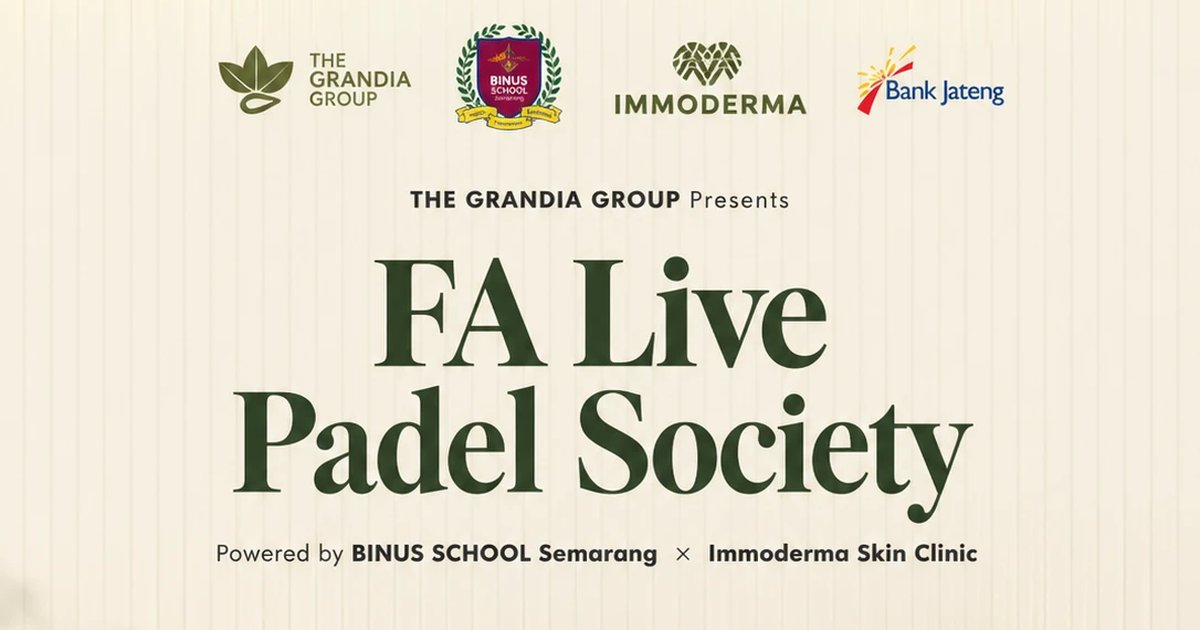
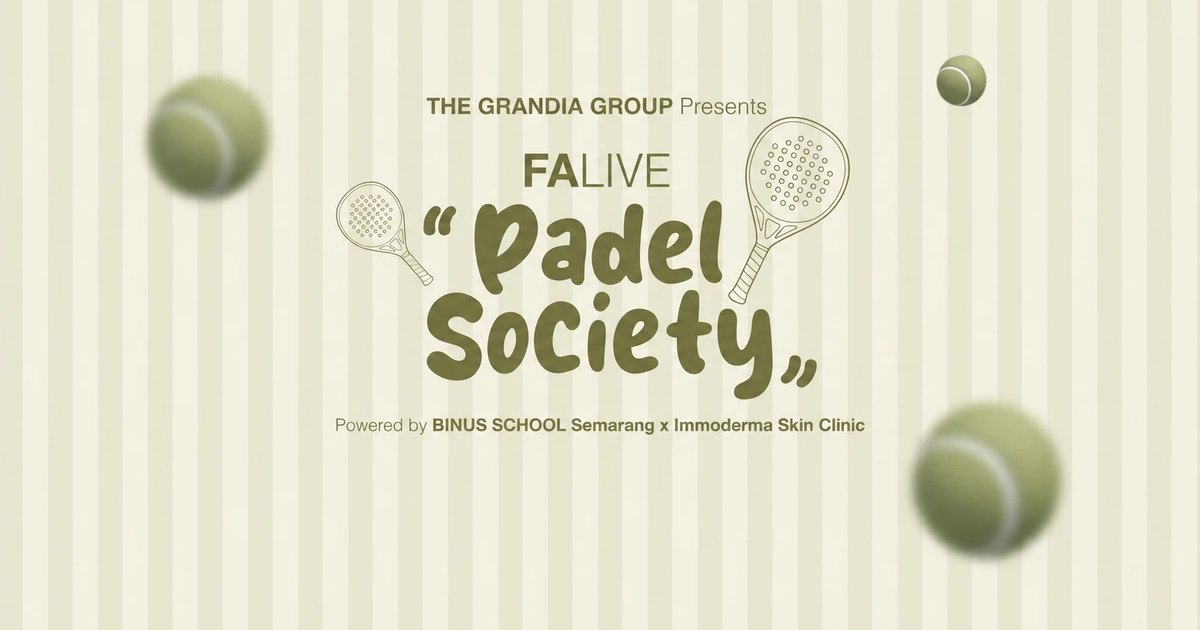
feat(ui): rebuild the cover around the organiser's new flyer
The new flyer is landscape and no longer carries the presenters' logos or the community partners, so both are rendered around it from their own files. A phone gets a square crop of the flyer, the title and the rackets without the balls; from 640px up the whole picture is shown. One picture element, so only one file is fetched. On a screen shorter than 600px the logos and the partners step aside and the flyer takes the room.

The logos arrived with white boxes of their own, which are cut away so they sit on the cream, and Club 79 arrived as white artwork, which is recoloured to ink. The WhatsApp preview and the tab icon are regenerated from the new files. Decorative logos are served at quality 60, which holds the page at 354 KB with Performance 99-100; the QR is untouched, it never passes through the image optimiser.

diff --git a/components/invitation/CoverBackdrop.tsx b/components/invitation/CoverBackdrop.tsx
@@ -5,12 +5,17 @@ import { useEffect, useState } from "react";
 import { BRAND } from "@/lib/brand";
 
 /**
- * The layer behind the cover — DESIGN.md section 5.1: the striped wall and
- * the flyer on it, pinned for the whole page. Once the card named by
- * `revealId` has risen past the lower fifth of the screen, the whole layer
- * blurs and fades back so the eye moves to the card; it sharpens again when
- * the visitor scrolls back up. Blurring the stripes with the flyer keeps the
- * flyer's edge from standing out against a sharp background.
+ * The layer behind the cover — DESIGN.md section 5.1: the striped wall, the
+ * presenters' logos, the flyer, and the community partners, pinned while the
+ * page scrolls. The logos and the partners used to be printed on the flyer
+ * itself; the organiser now supplies them as their own files, so they are set
+ * around it here.
+ *
+ * Once the card named by `revealId` has risen past the lower fifth of the
+ * screen, the whole layer blurs and fades back so the eye moves to the card,
+ * and it sharpens again when the visitor scrolls back up. Blurring the stripes
+ * with the artwork keeps the flyer's edge from standing out against a sharp
+ * background.
  *
  * The blur is switched, not scrubbed: a filter recomputed on every scroll
  * frame stutters on a cheap phone, a single transition does not. Without
@@ -20,6 +25,8 @@ import { BRAND } from "@/lib/brand";
 type CoverBackdropProps = {
   revealId: string;
 };
+
+const CAPTION = "font-sans text-sm font-normal tracking-[0.12em] text-ink";
 
 export function CoverBackdrop({ revealId }: CoverBackdropProps) {
   const [blurred, setBlurred] = useState(false);
@@ -38,7 +45,7 @@ export function CoverBackdrop({ revealId }: CoverBackdropProps) {
     return () => observer.disconnect();
   }, [revealId]);
 
-  const { flyer } = BRAND;
+  const { presenters, flyer, communities } = BRAND;
 
   return (
     // lvh, the screen with the address bar hidden, so the layer always covers
@@ -49,23 +56,60 @@ export function CoverBackdrop({ revealId }: CoverBackdropProps) {
       className="group sticky top-0 -mb-[100lvh] h-lvh overflow-hidden bg-canvas"
     >
       <div className="keep-fade paper-stripes absolute inset-0 transition-[filter] duration-500 ease-out group-data-blurred:blur-md">
-        {/* The flyer is placed within svh, not dvh: dvh follows the address
-            bar in and out, and the flyer would jump in size. */}
-        <div className="flex h-svh items-center justify-center pt-4 pb-24 sm:px-6 sm:pt-8 sm:pb-28">
-          {/* The width is bounded by the screen's width and, through the
-              flyer's 3:4, by its height, so the whole flyer is always in view.
-              It is set here rather than left to the image: the file's own
-              width changes with the candidate the browser picks. */}
-          <div className="w-[min(100%,calc((100svh-7rem)*3/4))] overflow-hidden transition-[scale] duration-500 ease-out motion-safe:group-data-blurred:scale-105 sm:w-[min(100%,calc((100svh-9rem)*3/4))] sm:rounded-card sm:shadow-card">
-            <Image
-              src={flyer.src}
+        {/* Placed within svh, not dvh: dvh follows the address bar in and out,
+            and the artwork would jump in size. */}
+        <div className="flex h-svh flex-col items-center justify-center gap-5 px-4 pt-4 pb-24 sm:gap-7 sm:px-6 sm:pt-8 sm:pb-28">
+          <Image
+            src={presenters.src}
+            alt={presenters.alt}
+            width={presenters.width}
+            height={presenters.height}
+            priority
+            sizes="(max-width: 639px) 84vw, 420px"
+            quality={60}
+            className="hidden h-auto w-[84%] max-w-[26.25rem] [@media(min-height:600px)]:block"
+          />
+
+          {/* One file is fetched, not two: a second <Image> hidden with CSS
+              would still be downloaded. The height caps keep the stack on the
+              screen: on a short screen — a phone held sideways — the logos and
+              the partners step aside and the flyer takes the room. */}
+          <picture className="transition-[scale] duration-500 ease-out motion-safe:group-data-blurred:scale-105">
+            <source media="(min-width: 640px)" srcSet={flyer.wide.src} />
+            <img
+              src={flyer.square.src}
               alt={flyer.alt}
-              width={flyer.width}
-              height={flyer.height}
-              priority
-              sizes="(max-width: 639px) 100vw, 600px"
-              className="block h-auto w-full"
+              width={flyer.square.width}
+              height={flyer.square.height}
+              fetchPriority="high"
+              decoding="async"
+              className="block h-auto max-h-[calc(100svh-8rem)] w-auto max-w-full rounded-card shadow-card sm:max-w-[34rem] lg:max-w-[42rem] [@media(min-height:600px)]:max-h-[calc(100svh-18rem)] sm:[@media(min-height:600px)]:max-h-[calc(100svh-20rem)]"
             />
+          </picture>
+
+          <div className="hidden flex-col items-center gap-3 [@media(min-height:600px)]:flex">
+            <p className={CAPTION}>Community Partners</p>
+            <div className="flex items-center gap-4">
+              <Image
+                src={communities.womenpreneur.src}
+                alt={communities.womenpreneur.alt}
+                width={communities.womenpreneur.width}
+                height={communities.womenpreneur.height}
+                sizes="120px"
+                quality={60}
+                className="h-11 w-auto md:h-12"
+              />
+              <span aria-hidden="true" className="h-9 w-px bg-line" />
+              <Image
+                src={communities.club79.src}
+                alt={communities.club79.alt}
+                width={communities.club79.width}
+                height={communities.club79.height}
+                sizes="120px"
+                quality={60}
+                className="h-4 w-auto md:h-5"
+              />
+            </div>
           </div>
         </div>
       </div>

diff --git a/lib/brand.ts b/lib/brand.ts
@@ -8,11 +8,15 @@
  * `events`.
  */
 
-/** A file under /public/brand with its intrinsic size, for next/image. */
-export type BrandImage = {
+/** A file under /public/brand with its intrinsic size. */
+export type ImageFile = {
   src: string;
   width: number;
   height: number;
+};
+
+/** An image that stands on its own, so it carries its own alt text. */
+export type BrandImage = ImageFile & {
   /** The artwork is mostly text, so the alt text reads it out in full. */
   alt: string;
 };
@@ -52,16 +56,42 @@ export function venueLogoFor(venueName: string): typeof VENUE_LOGO | null {
 export const BRAND = {
   /** Rendered uppercase by CSS, as on the flyer. Also the site name in titles. */
   presenter: "The Grandia Group",
-  /** The organiser's flyer, 3:4. It heads the cover in place of any headline. */
+  /** The logos printed above the flyer until the organiser sent it without them. */
+  presenters: {
+    src: "/brand/presenters.webp",
+    width: 1855,
+    height: 228,
+    alt: "The Grandia Group, BINUS School Semarang, Immoderma, and Bank Jateng.",
+  },
+  /**
+   * The organiser's flyer, in two crops of the same file. A phone gets the
+   * square middle — the title and the two rackets — because the wide version
+   * shrinks to a strip there; anything from 640px up gets the whole picture,
+   * balls and all.
+   */
   flyer: {
-    src: "/brand/flyer.webp",
-    width: 1086,
-    height: 1448,
-    alt: "FA Live Padel Society. The Grandia Group presents, powered by BINUS School Semarang and Immoderma Skin Clinic. With the logos of The Grandia Group, BINUS School Semarang, Immoderma, and Bank Jateng. Community partners: Womenpreneur BPD HIPMI Jawa Tengah and Club 79.",
+    alt: "FA Live Padel Society. The Grandia Group presents, powered by BINUS School Semarang and Immoderma Skin Clinic.",
+    square: { src: "/brand/flyer-square.webp", width: 780, height: 780 },
+    wide: { src: "/brand/flyer-wide.webp", width: 1536, height: 1024 },
+  },
+  /** Printed at the foot of the flyer until the organiser sent it without them. */
+  communities: {
+    womenpreneur: {
+      src: "/brand/community-womenpreneur.webp",
+      width: 1497,
+      height: 696,
+      alt: "Womenpreneur BPD HIPMI Jawa Tengah",
+    },
+    club79: {
+      src: "/brand/community-club79.webp",
+      width: 593,
+      height: 121,
+      alt: "Club 79",
+    },
   },
   /**
    * The supporters' logos, prepared for the cream card and used whole. The
-   * community partners are left out: the flyer already shows them.
+   * community partners are left out: they have their own place on the cover.
    */
   sponsors: {
     src: "/brand/sponsors-supported.webp",
@@ -71,6 +101,8 @@ export const BRAND = {
   },
 } as const satisfies {
   presenter: string;
-  flyer: BrandImage;
+  presenters: BrandImage;
+  flyer: { alt: string; square: ImageFile; wide: ImageFile };
+  communities: Record<"womenpreneur" | "club79", BrandImage>;
   sponsors: BrandImage;
 };

diff --git a/next.config.ts b/next.config.ts
@@ -49,6 +49,14 @@ const securityHeaders = [
 const privatePages = ["/t/:path*", "/scan", "/admin", "/admin/:path*"];
 
 const nextConfig: NextConfig = {
+  images: {
+    // 75 is the default and stays for anything read closely. 60 is for the
+    // decorative logos on the cover and the ticket — the sponsor board, the
+    // community marks, the venue mark — where it saves about a fifth of the
+    // page's weight with no visible difference at the size they are shown.
+    // The QR is never resized here: it is served raw from /api/qr.
+    qualities: [60, 75],
+  },
   async headers() {
     return [
       { source: "/(.*)", headers: securityHeaders },

diff --git a/tests/unit/brand.test.ts b/tests/unit/brand.test.ts
@@ -55,7 +55,16 @@ describe('BRAND', () => {
   // next/image reserves space from these numbers. When the organiser sends a
   // new file, a size left stale would stretch the artwork.
   it('records the real size of every brand image', () => {
-    for (const image of [BRAND.flyer, BRAND.sponsors]) {
+    const images = [
+      BRAND.flyer.square,
+      BRAND.flyer.wide,
+      BRAND.presenters,
+      BRAND.communities.womenpreneur,
+      BRAND.communities.club79,
+      BRAND.sponsors,
+    ]
+
+    for (const image of images) {
       expect(webpSize(image.src), image.src).toEqual({ width: image.width, height: image.height })
     }
   })

diff --git a/components/invitation/Cover.tsx b/components/invitation/Cover.tsx
@@ -107,6 +107,7 @@ export function Cover({
             width={sponsors.width}
             height={sponsors.height}
             sizes="(max-width: 480px) calc(100vw - 4.5rem), 416px"
+            quality={60}
             className="h-auto w-full"
           />
         </div>

diff --git a/components/ui/VenueMark.tsx b/components/ui/VenueMark.tsx
@@ -27,6 +27,7 @@ export function VenueMark({ venueName, mapUrl, className = "" }: VenueMarkProps)
       width={logo.width}
       height={logo.height}
       sizes="192px"
+      quality={60}
       className="h-10 w-auto md:h-12"
     />
   ) : (
